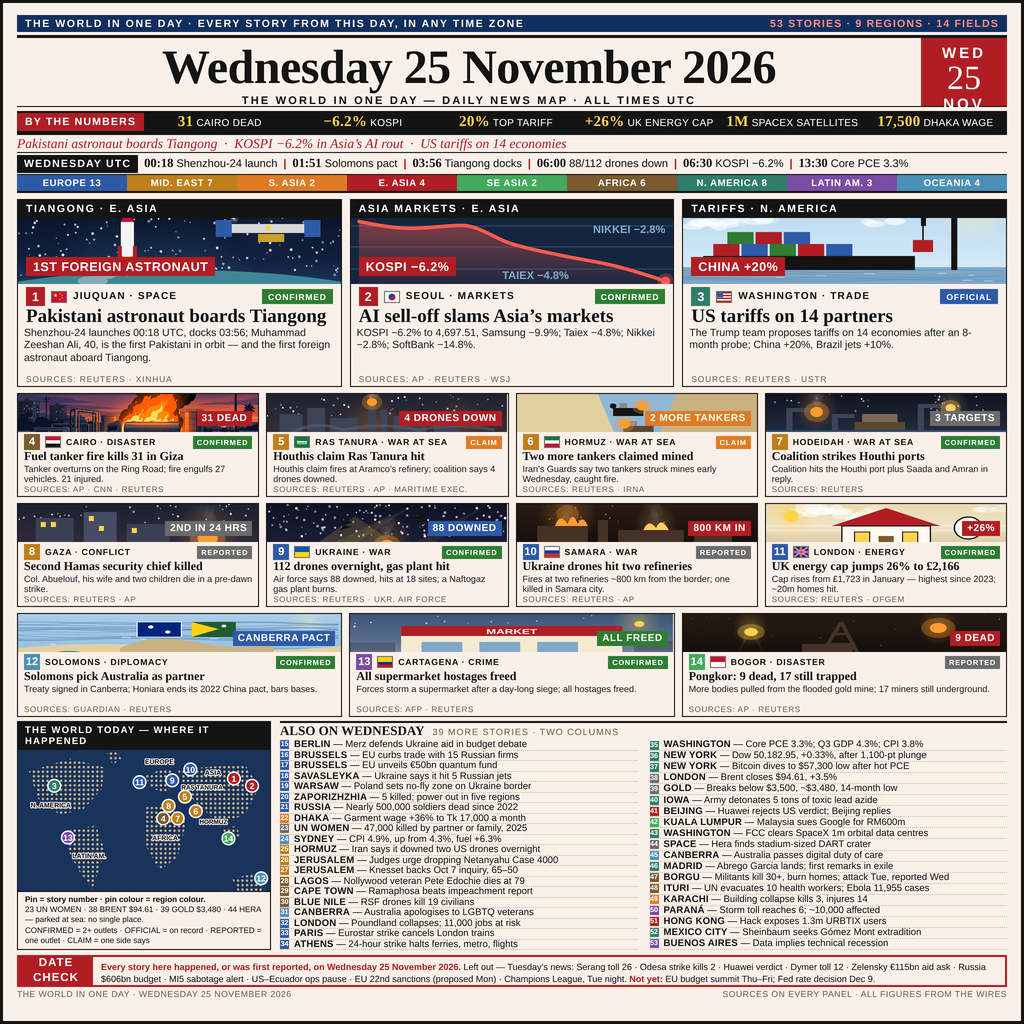
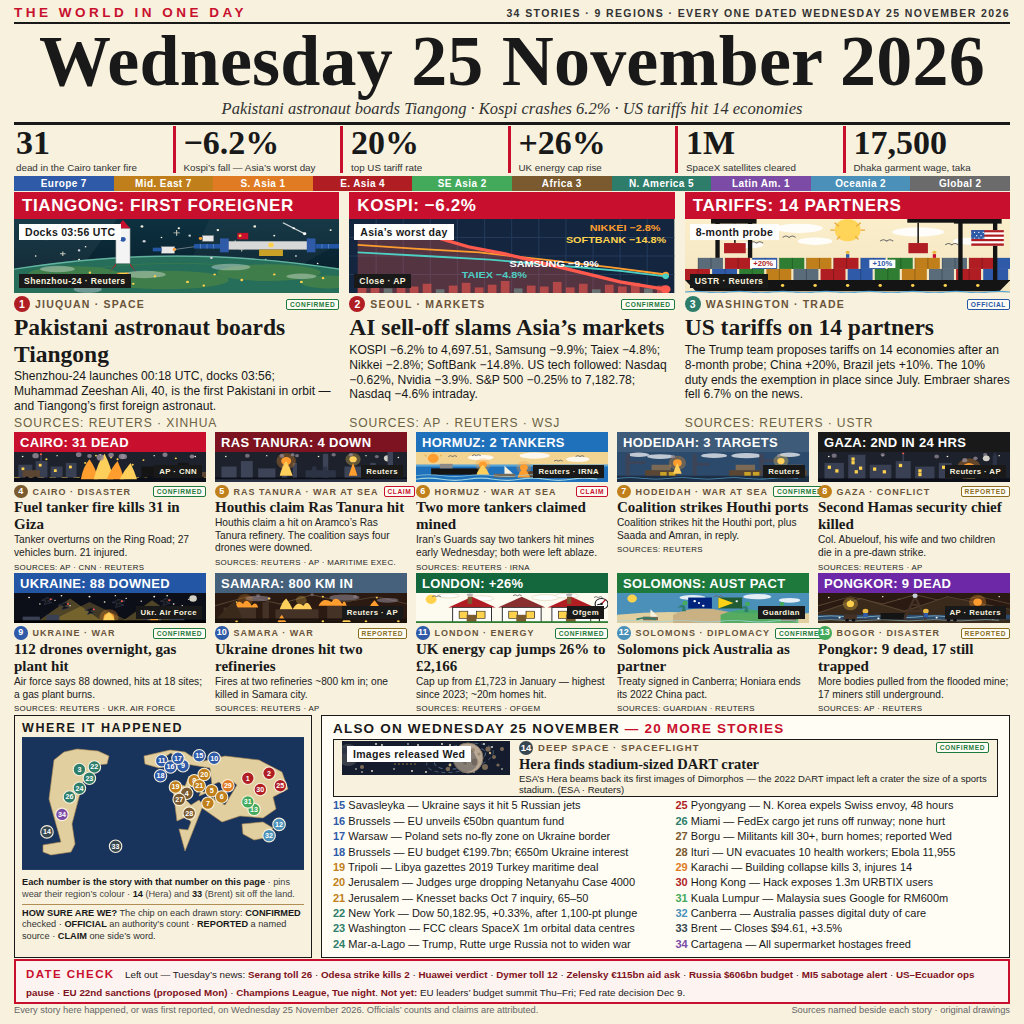
Round 3: draft 9 — 34 stories, map redrawn like 21 Nov, pin 34 fixed

diff --git a/main.ts b/main.ts
@@ -1,34 +1,65 @@
-import { copyFileSync, existsSync, mkdirSync } from "node:fs";
+// Entry point for the news-image 20261125 round-3 (draft 9) submission.
+//
+// The finished image is produced by the build step and stored in the bot
+// directory as entry.png. This program's only job is to place those exact
+// bytes at the location the grader reads: entry.png inside the output
+// directory. It performs a byte-for-byte copy and nothing else, so repeated
+// runs are deterministic by construction.
+
+import { copyFileSync, existsSync, mkdirSync, statSync } from "node:fs";
 import { dirname, join } from "node:path";
 import { fileURLToPath } from "node:url";
 
-function botDir(): string {
-  const override = process.env.MAKEFUN_BOT_DIR;
-  if (override !== undefined && override !== "") {
-    return override;
+const SOURCE_NAME = "entry.png";
+const DEFAULT_OUTPUT_DIR = "/output";
+
+function resolveBotDir(): string {
+  const fromEnv = process.env.MAKEFUN_BOT_DIR;
+  if (fromEnv !== undefined && fromEnv.trim() !== "") {
+    return fromEnv;
   }
+  // Fall back to the directory that contains this script file, derived from
+  // the script's own URL. The process working directory is never used.
   return dirname(fileURLToPath(import.meta.url));
 }
 
-function outputDir(): string {
-  const override = process.env.MAKEFUN_OUTPUT_DIR;
-  if (override !== undefined && override !== "") {
-    return override;
+function resolveOutputDir(): string {
+  const fromEnv = process.env.MAKEFUN_OUTPUT_DIR;
+  if (fromEnv !== undefined && fromEnv.trim() !== "") {
+    return fromEnv;
   }
-  return "/output";
+  return DEFAULT_OUTPUT_DIR;
 }
 
 function main(): void {
-  const source = join(botDir(), "entry.png");
-  if (!existsSync(source)) {
-    throw new Error(`entry.png not found in bot directory: ${source}`);
+  const botDir = resolveBotDir();
+  const outputDir = resolveOutputDir();
+
+  const sourcePath = join(botDir, SOURCE_NAME);
+  if (!existsSync(sourcePath)) {
+    throw new Error(
+      `Source image not found: ${sourcePath}. ` +
+        `Expected entry.png in the bot directory (${botDir}).`,
+    );
   }
-  const targetDir = outputDir();
-  mkdirSync(targetDir, { recursive: true });
-  const target = join(targetDir, "entry.png");
-  copyFileSync(source, target);
-  if (!existsSync(target)) {
-    throw new Error(`failed to write output image: ${target}`);
+
+  mkdirSync(outputDir, { recursive: true });
+
+  const destPath = join(outputDir, SOURCE_NAME);
+  copyFileSync(sourcePath, destPath);
+
+  if (!existsSync(destPath)) {
+    throw new Error(
+      `Output image missing after copy, expected it at: ${destPath}.`,
+    );
+  }
+  const sourceSize = statSync(sourcePath).size;
+  const destSize = statSync(destPath).size;
+  if (destSize !== sourceSize) {
+    throw new Error(
+      `Output image size mismatch after copy: expected ${sourceSize} bytes ` +
+        `but wrote ${destSize} bytes at ${destPath}.`,
+    );
   }
 }
 

diff --git a/README.md b/README.md
@@ -4,7 +4,7 @@
 ![rank](https://make.fun/badge/news-image-20261125/zenfrog72/makefun-news-20261125/rank.svg)
 ![reward](https://make.fun/badge/news-image-20261125/zenfrog72/makefun-news-20261125/reward.svg)
 
-Entry for the [make.fun news-image-20261125 bounty](https://make.fun/bounty/news-image-20261125): a one-page frontpage for Wednesday 25 November 2026 — 53 stories, 9 regions, 14 drawn panels, a UTC timeline and a date-check audit.
+Entry for the [make.fun news-image-20261125 bounty](https://make.fun/bounty/news-image-20261125): a one-page frontpage for Wednesday 25 November 2026 — 34 stories, 9 regions, 14 drawn panels, a map and a date-check audit.
 
 Heroes: Shenzhou-24 puts the first Pakistani astronaut aboard Tiangong, Asia's AI stocks rout (KOSPI −6.2%), and US tariffs on 14 partners with China +20%.
 
